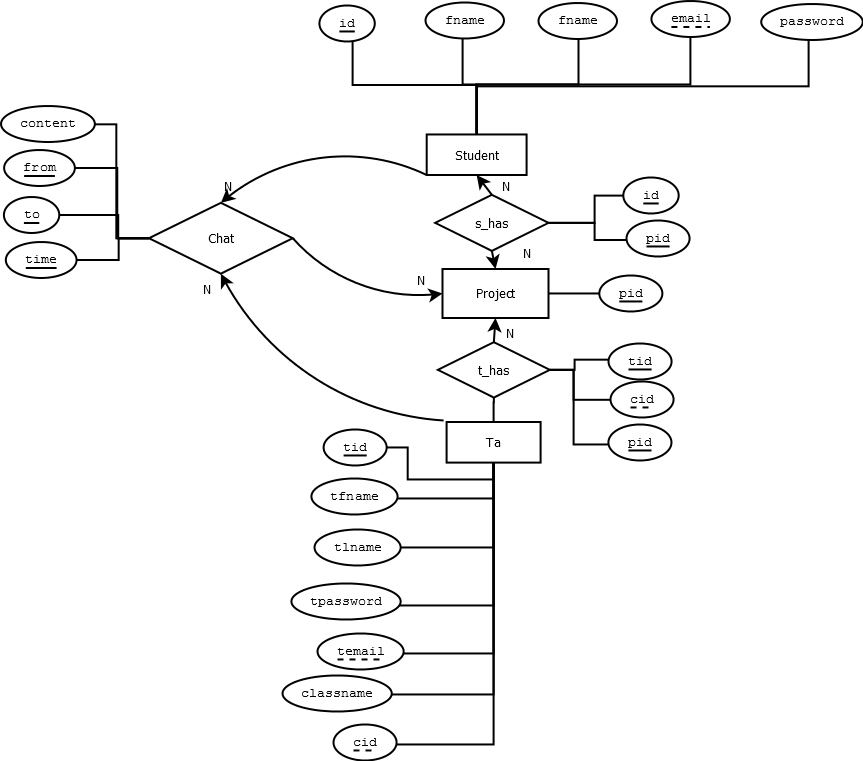
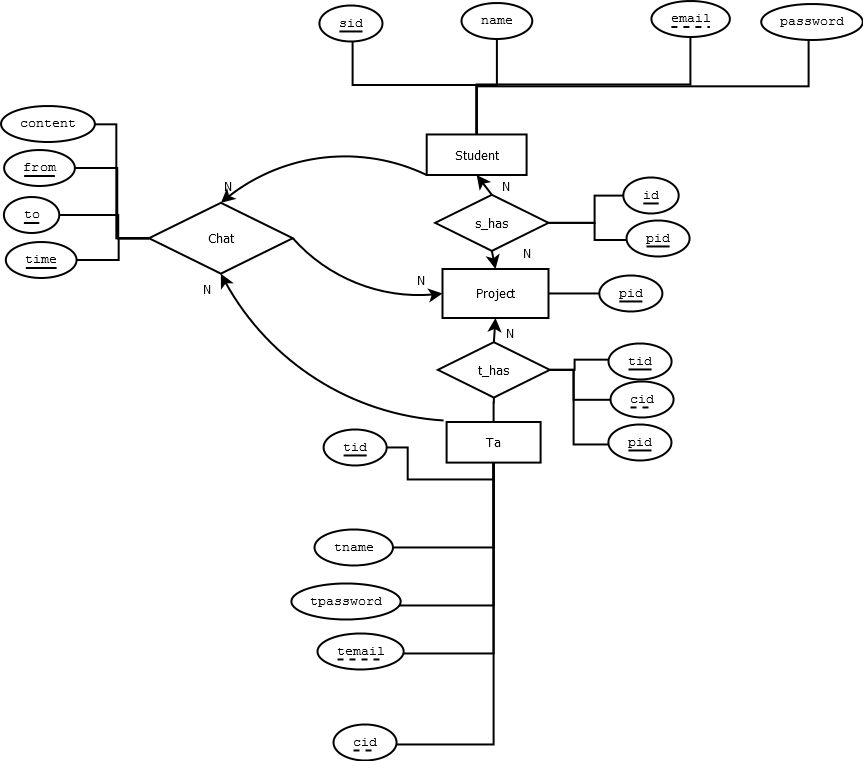
changed db structure, made according changes in script

diff --git a/code/index.php b/code/index.php
@@ -120,7 +120,7 @@ require_once 'sql_connect.php';
 				$email = $_POST['email'];
 				$password = $_POST['password'];
 
-				$dbsearch = "SELECT * FROM Ta where email = '$email'";
+				$dbsearch = "SELECT * FROM Ta where temail = '$email'";
 				$query = mysqli_query($dbc, $dbsearch); //pass this query to our db
 				$found = mysqli_num_rows($query); //returns number of found rows
 
@@ -128,14 +128,13 @@ require_once 'sql_connect.php';
 				if($found == 1)
 				{
 					$row = mysqli_fetch_assoc($query);
-					$dbfname = $row['fname'];
-					$dblname = $row['lname'];
-					$dbpassword = $row['password'];
-					$dbusername = $row['email'];
+					$dbname = $row['tname'];
+					$dbpassword = $row['tpassword'];
+					$dbusername = $row['temail'];
 					//password is correct
 					if($password == $dbpassword)
 					{
-						echo $welcome = "<h3>Login succesful, welcome  $dbfname!";
+						echo $welcome = "<h3>Login succesful, welcome  $dbname!";
 					}
 					else echo $wrongpassword = " <h3> Wrong password, please try again! </h3>";
 				}
